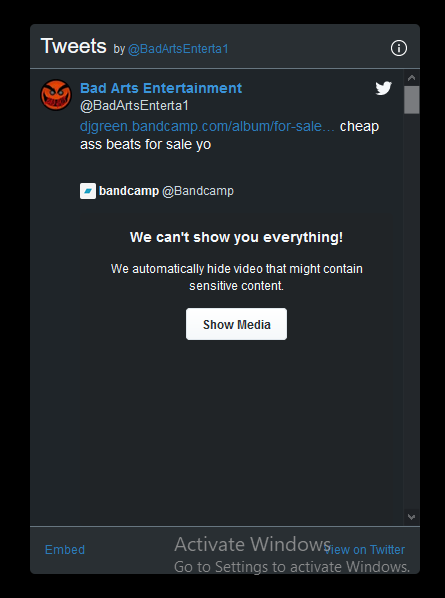
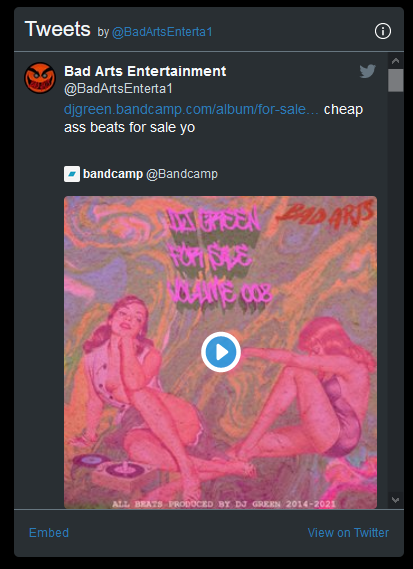
add screenshots

diff --git a/README.md b/README.md
@@ -33,16 +33,28 @@ For the title within the navbar, I chose a dramatic font called Holtwood One SC.
     * Information pertaining to each artist and their connections with each other to get a better understanding of the label as a whole.
     * A way to view their social feed without having to leave the webpage.
     * A method to interact with the label's social media content which is split across several external sites. 
+    * To be subscribed to a mailing list in order to be kept up to date with any future releases or events.
 
 ##### Artist Bio 
 
 ![Artist Bio](assets/img/Capture8.PNG)
+
+##### Mailing List
+
+![Mailing List](assets/img/Capture.PNG)
 
 2. As a fan that would like to purchase a specific artist's album I need:
 
     * A music/video gallery to decide which album is right for me.
     * A link to an internal/external shop where I can purchase the album for a reasonable price.
 
+##### Bandcamp link
+
+![Bandcamp Link](assets/img/Capture6.PNG)
+
+##### Video Gallery
+
+![Video Gallery](assets/img/Capture7.PNG)
 
 3. As a music venue promoter I need:
 
@@ -50,6 +62,13 @@ For the title within the navbar, I chose a dramatic font called Holtwood One SC.
     * The ability to view previous events that the label has been a part of.
     * A method to get in contact with the label in order to book their artists for concerts.
 
+##### Events Page
+
+![Event Page](assets/img/Capture2.PNG)
+
+##### Contact 
+
+![Contact](assets/img/Capture5.PNG)
 
 4. As a music PR agent I need:
 
@@ -57,6 +76,7 @@ For the title within the navbar, I chose a dramatic font called Holtwood One SC.
     * A video gallery containing the majority of their releases.
     * A gateway to the label's external social media presence.
 
+![Twitter Iframe](assets/img/Capture3.PNG)
 
 ### Design Choices
 
